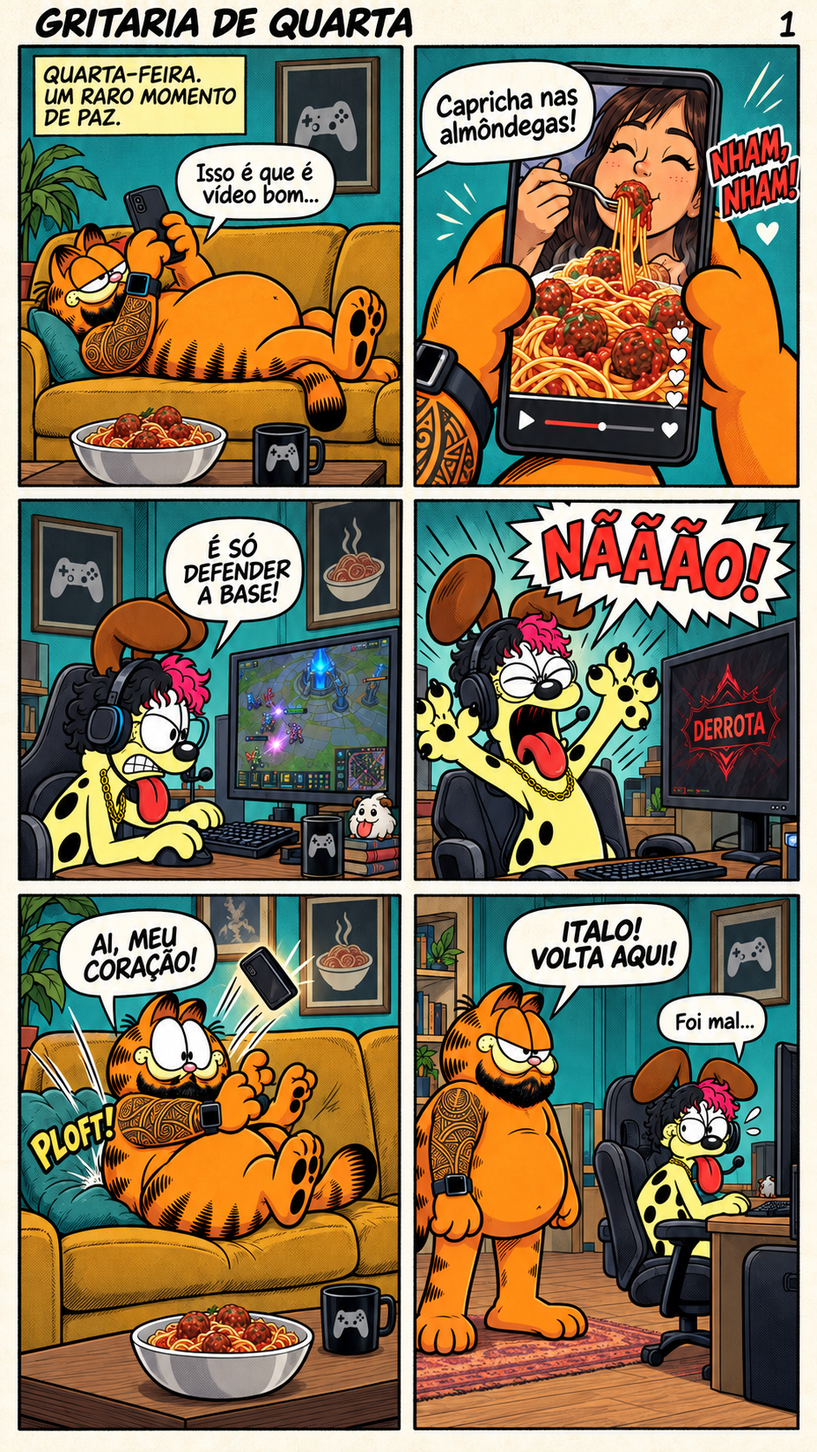
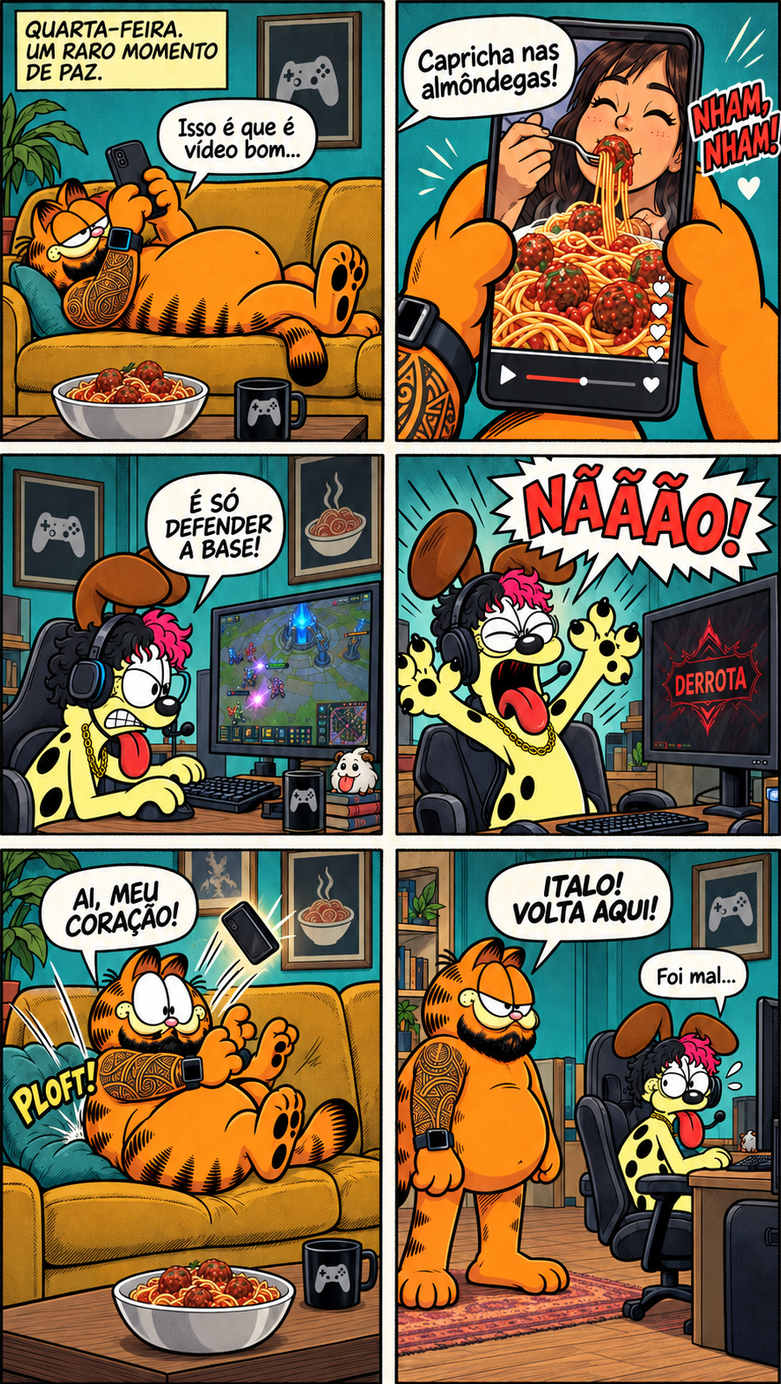
Capítulo 7: páginas recortadas só na ilustração
Sem título, numeração, logo e rodapé fora dos quadros (só cropping).
PAG1 e PAG2 eram duas versões da página 1: fica a PAG1; a outra e os
originais sem recorte estão em output/cap7 (fora do git).

diff --git a/js/images.generated.js b/js/images.generated.js
@@ -1,1 +1,1 @@
-window.SiteImages = {"assets/Capitulo 1/Capa/Capa CAP1.png":{"width":1536,"height":2752,"variants":[{"width":640,"src":"assets/web/4be0df9cb3cd0303-640.webp","bytes":282580},{"width":1280,"src":"assets/web/4be0df9cb3cd0303-1280.webp","bytes":839980},{"width":1536,"src":"assets/web/4be0df9cb3cd0303-1536.webp","bytes":1101664}]},"assets/Capitulo 1/Paginas/Enzo.png":{"width":768,"height":1365,"variants":[{"width":640,"src":"assets/web/df7a347e7b23842c-640.webp","bytes":187504},{"width":768,"src":"assets/web/df7a347e7b23842c-768.webp","bytes":255892}]},"assets/Capitulo 2/Capa/Capa CAP2.png":{"width":1536,"height":2752,"variants":[{"width":640,"src":"assets/web/0af9599b0faddd6d-640.webp","bytes":161188},{"width":1280,"src":"assets/web/0af9599b0faddd6d-1280.webp","bytes":462214},{"width":1536,"src":"assets/web/0af9599b0faddd6d-1536.webp","bytes":616116}]},"assets/Capitulo 2/Paginas/Cap 2 Pag1.png":{"width":768,"height":1364,"variants":[{"width":640,"src":"assets/web/5a283b23bfdf360c-640.webp","bytes":165768},{"width":768,"src":"assets/web/5a283b23bfdf360c-768.webp","bytes":213828}]},"assets/Capitulo 2/Paginas/Cap 2 Pag2.png":{"width":704,"height":1524,"variants":[{"width":640,"src":"assets/web/3623307bc33045ec-640.webp","bytes":209652},{"width":704,"src":"assets/web/3623307bc33045ec-704.webp","bytes":240104}]},"assets/Capitulo 3/Capa/Capa CAP3.PNG":{"width":1696,"height":2528,"variants":[{"width":640,"src":"assets/web/57dd2a80faf34dfc-640.webp","bytes":158634},{"width":1280,"src":"assets/web/57dd2a80faf34dfc-1280.webp","bytes":438342},{"width":1696,"src":"assets/web/57dd2a80faf34dfc-1696.webp","bytes":633914}]},"assets/Capitulo 3/Paginas/CAP3 PAG1.png":{"width":1696,"height":2528,"variants":[{"width":640,"src":"assets/web/7419953b5d00e5a4-640.webp","bytes":153028},{"width":1280,"src":"assets/web/7419953b5d00e5a4-1280.webp","bytes":403282},{"width":1696,"src":"assets/web/7419953b5d00e5a4-1696.webp","bytes":580774}]},"assets/Capitulo 3/Paginas/CAP3 PAG2.png":{"width":2752,"height":1536,"variants":[{"width":640,"src":"assets/web/699a2f8864b9622f-640.webp","bytes":86996},{"width":1280,"src":"assets/web/699a2f8864b9622f-1280.webp","bytes":253210},{"width":2000,"src":"assets/web/699a2f8864b9622f-2000.webp","bytes":483108}]},"assets/Capitulo 4/Capa/CAP4 CAPA.png":{"width":1536,"height":2752,"variants":[{"width":640,"src":"assets/web/1f96b72aac13d7f2-640.webp","bytes":169966},{"width":1280,"src":"assets/web/1f96b72aac13d7f2-1280.webp","bytes":487398},{"width":1536,"src":"assets/web/1f96b72aac13d7f2-1536.webp","bytes":629056}]},"assets/Capitulo 4/Paginas/CAP 4 PAG1.png":{"width":768,"height":1376,"variants":[{"width":640,"src":"assets/web/4d996956b9f0d444-640.webp","bytes":149502},{"width":768,"src":"assets/web/4d996956b9f0d444-768.webp","bytes":192440}]},"assets/Capitulo 4/Paginas/CAP 4 PAG2.png":{"width":704,"height":1524,"variants":[{"width":640,"src":"assets/web/a4616e769ec1f0cf-640.webp","bytes":178442},{"width":704,"src":"assets/web/a4616e769ec1f0cf-704.webp","bytes":199984}]},"assets/Capitulo 5/Capa/CAP5 CAPA.png":{"width":1536,"height":2752,"variants":[{"width":640,"src":"assets/web/567e0c447d2019d3-640.webp","bytes":233076},{"width":1280,"src":"assets/web/567e0c447d2019d3-1280.webp","bytes":646570},{"width":1536,"src":"assets/web/567e0c447d2019d3-1536.webp","bytes":846204}]},"assets/Capitulo 5/Paginas/CAP5 PAG1.jpg":{"width":768,"height":1376,"variants":[{"width":640,"src":"assets/web/d19c01e3a9a17c96-640.webp","bytes":152916},{"width":768,"src":"assets/web/d19c01e3a9a17c96-768.webp","bytes":192142}]},"assets/Capitulo 5/Paginas/CAP5 PAG2.jpg":{"width":768,"height":1376,"variants":[{"width":640,"src":"assets/web/6fe03013b0fd59d4-640.webp","bytes":165420},{"width":768,"src":"assets/web/6fe03013b0fd59d4-768.webp","bytes":208018}]},"assets/Capitulo 5/Paginas/CAP5 PAG3.jpg":{"width":768,"height":1376,"variants":[{"width":640,"src":"assets/web/b3261fd3d8e3e6f0-640.webp","bytes":192846},{"width":768,"src":"assets/web/b3261fd3d8e3e6f0-768.webp","bytes":251022}]},"assets/Capitulo 5/Paginas/CAP5 PAG4.png":{"width":1984,"height":2057,"variants":[{"width":640,"src":"assets/web/06babd350286daaa-640.webp","bytes":157624},{"width":1280,"src":"assets/web/06babd350286daaa-1280.webp","bytes":429008},{"width":1984,"src":"assets/web/06babd350286daaa-1984.webp","bytes":734164}]},"assets/Capitulo 5/Paginas/CAP5 PAG5.png":{"width":1696,"height":2528,"variants":[{"width":640,"src":"assets/web/5519e80eef40716c-640.webp","bytes":183060},{"width":1280,"src":"assets/web/5519e80eef40716c-1280.webp","bytes":466880},{"width":1696,"src":"assets/web/5519e80eef40716c-1696.webp","bytes":651306}]},"assets/Capitulo 6/Capa/CAP6 CAPA.png":{"width":1536,"height":2752,"variants":[{"width":640,"src":"assets/web/e4d58efa050329a5-640.webp","bytes":206928},{"width":1280,"src":"assets/web/e4d58efa050329a5-1280.webp","bytes":567676},{"width":1536,"src":"assets/web/e4d58efa050329a5-1536.webp","bytes":725778}]},"assets/Capitulo 6/Paginas/PAG1.png":{"width":768,"height":1376,"variants":[{"width":640,"src":"assets/web/826a25cc11a3b3af-640.webp","bytes":202522},{"width":768,"src":"assets/web/826a25cc11a3b3af-768.webp","bytes":266496}]},"assets/Capitulo 6/Paginas/PAG2.png":{"width":1080,"height":1920,"variants":[{"width":640,"src":"assets/web/3fb247fb5bc6bacb-640.webp","bytes":167464},{"width":1080,"src":"assets/web/3fb247fb5bc6bacb-1080.webp","bytes":306248}]},"assets/Capitulo 6/Paginas/PAG3.png":{"width":1750,"height":2432,"variants":[{"width":640,"src":"assets/web/08199e3d3e94e7ab-640.webp","bytes":144236},{"width":1280,"src":"assets/web/08199e3d3e94e7ab-1280.webp","bytes":361216},{"width":1750,"src":"assets/web/08199e3d3e94e7ab-1750.webp","bytes":528686}]},"assets/Capitulo 6/Paginas/PAG4.png":{"width":1750,"height":2432,"variants":[{"width":640,"src":"assets/web/dd9e6d41b282f436-640.webp","bytes":152042},{"width":1280,"src":"assets/web/dd9e6d41b282f436-1280.webp","bytes":406800},{"width":1750,"src":"assets/web/dd9e6d41b282f436-1750.webp","bytes":606140}]},"assets/Capitulo 6/Paginas/PAG5.png":{"width":1696,"height":2528,"variants":[{"width":640,"src":"assets/web/f535e7ba25b61751-640.webp","bytes":157724},{"width":1280,"src":"assets/web/f535e7ba25b61751-1280.webp","bytes":403716},{"width":1696,"src":"assets/web/f535e7ba25b61751-1696.webp","bytes":574934}]},"assets/Capitulo 7/Capa/CAP7 CAPA.png":{"width":941,"height":1672,"variants":[{"width":640,"src":"assets/web/c6dfea0d29d8f2ba-640.webp","bytes":283226},{"width":941,"src":"assets/web/c6dfea0d29d8f2ba-941.webp","bytes":513470}]},"assets/Capitulo 7/Paginas/PAG1.png":{"width":941,"height":1672,"variants":[{"width":640,"src":"assets/web/a3b827d808a4e5ff-640.webp","bytes":214662},{"width":941,"src":"assets/web/a3b827d808a4e5ff-941.webp","bytes":405606}]},"assets/Capitulo 7/Paginas/PAG2.png":{"width":1062,"height":1480,"variants":[{"width":640,"src":"assets/web/617e46d83be1ae64-640.webp","bytes":185242},{"width":1062,"src":"assets/web/617e46d83be1ae64-1062.webp","bytes":440574}]},"assets/Capitulo 7/Paginas/PAG3.png":{"width":941,"height":1672,"variants":[{"width":640,"src":"assets/web/184d44303f342040-640.webp","bytes":296474},{"width":941,"src":"assets/web/184d44303f342040-941.webp","bytes":555542}]},"assets/Capitulo 7/Paginas/PAG4.png":{"width":941,"height":1672,"variants":[{"width":640,"src":"assets/web/9dc31baa3427485e-640.webp","bytes":233616},{"width":941,"src":"assets/web/9dc31baa3427485e-941.webp","bytes":405400}]},"assets/Easter Eggs/Easter egg1.jpg":{"width":4080,"height":2296,"variants":[{"width":640,"src":"assets/web/deca72384fd8fcdc-640.webp","bytes":130320},{"width":1280,"src":"assets/web/deca72384fd8fcdc-1280.webp","bytes":517788},{"width":2000,"src":"assets/web/deca72384fd8fcdc-2000.webp","bytes":1051558}]},"assets/Personagens/Cabo Côco.png":{"width":1750,"height":2432,"variants":[{"width":640,"src":"assets/web/c0df924b96103b1d-640.webp","bytes":127364},{"width":1280,"src":"assets/web/c0df924b96103b1d-1280.webp","bytes":319928},{"width":1750,"src":"assets/web/c0df924b96103b1d-1750.webp","bytes":455452}]},"assets/Personagens/Degustador da noite Ficha.png":{"width":2048,"height":2056,"variants":[{"width":640,"src":"assets/web/ae15609878b0c353-640.webp","bytes":92714},{"width":1280,"src":"assets/web/ae15609878b0c353-1280.webp","bytes":238576},{"width":2000,"src":"assets/web/ae15609878b0c353-2000.webp","bytes":406464}]},"assets/Personagens/Enzo games ficha.png":{"width":1696,"height":2528,"variants":[{"width":640,"src":"assets/web/923569396f52acf1-640.webp","bytes":139952},{"width":1280,"src":"assets/web/923569396f52acf1-1280.webp","bytes":351198},{"width":1696,"src":"assets/web/923569396f52acf1-1696.webp","bytes":503082}]},"assets/Personagens/Hatsune Neves Ficha.png":{"width":2048,"height":2056,"variants":[{"width":640,"src":"assets/web/5cbfeb049ab34406-640.webp","bytes":115008},{"width":1280,"src":"assets/web/5cbfeb049ab34406-1280.webp","bytes":289656},{"width":2000,"src":"assets/web/5cbfeb049ab34406-2000.webp","bytes":500666}]},"assets/Personagens/Italolol.png":{"width":2016,"height":2114,"variants":[{"width":640,"src":"assets/web/35abbd7f000760a8-640.webp","bytes":67668},{"width":1280,"src":"assets/web/35abbd7f000760a8-1280.webp","bytes":157692},{"width":2000,"src":"assets/web/35abbd7f000760a8-2000.webp","bytes":264418}]},"assets/Personagens/O Inominavel Ficha.png":{"width":1344,"height":3100,"variants":[{"width":640,"src":"assets/web/396f3fd71eaad2f7-640.webp","bytes":161916},{"width":1280,"src":"assets/web/396f3fd71eaad2f7-1280.webp","bytes":386856},{"width":1344,"src":"assets/web/396f3fd71eaad2f7-1344.webp","bytes":418862}]},"assets/Personagens/Superkid Ficha.png":{"width":2016,"height":2086,"variants":[{"width":640,"src":"assets/web/77d918b4b1d05682-640.webp","bytes":100554},{"width":1280,"src":"assets/web/77d918b4b1d05682-1280.webp","bytes":256014},{"width":2000,"src":"assets/web/77d918b4b1d05682-2000.webp","bytes":434380}]},"assets/Personagens/cabo-coco.png":{"width":1750,"height":2432,"variants":[{"width":640,"src":"assets/web/15841341af8f999e-640.webp","bytes":341896},{"width":1280,"src":"assets/web/15841341af8f999e-1280.webp","bytes":868734},{"width":1750,"src":"assets/web/15841341af8f999e-1750.webp","bytes":581492}]},"assets/Spin Offs/Degustador da noite/Capitulo 1/Capa/CAPA DEGUSTADORR Cap1.png":{"width":941,"height":1672,"variants":[{"width":640,"src":"assets/web/a309be8920407819-640.webp","bytes":124232},{"width":941,"src":"assets/web/a309be8920407819-941.webp","bytes":226420}]},"assets/Spin Offs/Degustador da noite/Capitulo 1/Paginas/PAG1.png":{"width":1536,"height":1024,"variants":[{"width":640,"src":"assets/web/72ae2995e56a4a6f-640.webp","bytes":60062},{"width":1280,"src":"assets/web/72ae2995e56a4a6f-1280.webp","bytes":160658},{"width":1536,"src":"assets/web/72ae2995e56a4a6f-1536.webp","bytes":208440}]},"assets/Spin Offs/Degustador da noite/Capitulo 1/Paginas/PAG2.png":{"width":1536,"height":1024,"variants":[{"width":640,"src":"assets/web/47b661d12542ccdc-640.webp","bytes":54078},{"width":1280,"src":"assets/web/47b661d12542ccdc-1280.webp","bytes":166122},{"width":1536,"src":"assets/web/47b661d12542ccdc-1536.webp","bytes":214860}]},"assets/Spin Offs/Degustador da noite/Capitulo 1/Paginas/PAG3.png":{"width":1536,"height":1024,"variants":[{"width":640,"src":"assets/web/b942208954c80c73-640.webp","bytes":51422},{"width":1280,"src":"assets/web/b942208954c80c73-1280.webp","bytes":161702},{"width":1536,"src":"assets/web/b942208954c80c73-1536.webp","bytes":210764}]},"assets/Spin Offs/Degustador da noite/Capitulo 1/Paginas/PAG4.png":{"width":941,"height":1672,"variants":[{"width":640,"src":"assets/web/76bc80f3a7e7dbae-640.webp","bytes":130986},{"width":941,"src":"assets/web/76bc80f3a7e7dbae-941.webp","bytes":232658}]},"assets/Spin Offs/Degustador da noite/Capitulo 2/Capa/CAPA CAP2.jpg":{"width":720,"height":1280,"variants":[{"width":640,"src":"assets/web/c4b8cba0225bff6e-640.webp","bytes":170276},{"width":720,"src":"assets/web/c4b8cba0225bff6e-720.webp","bytes":199572}]},"assets/Spin Offs/Degustador da noite/Capitulo 2/Paginas/PAG1.png":{"width":1536,"height":1024,"variants":[{"width":640,"src":"assets/web/ec2360a576e04bb7-640.webp","bytes":67032},{"width":1280,"src":"assets/web/ec2360a576e04bb7-1280.webp","bytes":230592},{"width":1536,"src":"assets/web/ec2360a576e04bb7-1536.webp","bytes":305864}]},"assets/Spin Offs/Degustador da noite/Capitulo 2/Paginas/PAG2.jpg":{"width":1280,"height":853,"variants":[{"width":640,"src":"assets/web/41d673d3186f8efd-640.webp","bytes":60042},{"width":1280,"src":"assets/web/41d673d3186f8efd-1280.webp","bytes":182552}]},"assets/Spin Offs/Degustador da noite/Capitulo 2/Paginas/PAG3.jpg":{"width":1280,"height":858,"variants":[{"width":640,"src":"assets/web/5bfc1449d8c8351e-640.webp","bytes":63002},{"width":1280,"src":"assets/web/5bfc1449d8c8351e-1280.webp","bytes":191268}]},"assets/Spin Offs/Degustador da noite/Capitulo 2/Paginas/PAG4.jpg":{"width":1280,"height":853,"variants":[{"width":640,"src":"assets/web/907ec412b1074f0a-640.webp","bytes":64556},{"width":1280,"src":"assets/web/907ec412b1074f0a-1280.webp","bytes":198028}]},"assets/Spin Offs/Degustador da noite/Capitulo 2/Paginas/PAG5.jpg":{"width":1280,"height":1024,"variants":[{"width":640,"src":"assets/web/a9001f23a16cc3bd-640.webp","bytes":88156},{"width":1280,"src":"assets/web/a9001f23a16cc3bd-1280.webp","bytes":253344}]},"assets/Spin Offs/Degustador da noite/Capitulo 2/Paginas/PAG6.jpg":{"width":1280,"height":851,"variants":[{"width":640,"src":"assets/web/c0da4a9a63dc2d4f-640.webp","bytes":48112},{"width":1280,"src":"assets/web/c0da4a9a63dc2d4f-1280.webp","bytes":135316}]},"assets/Spin Offs/Degustador da noite/Capitulo 3/Capa/capa-provisoria.png":{"width":720,"height":1280,"variants":[{"width":640,"src":"assets/web/7238cc13af1c0a1f-640.webp","bytes":72728},{"width":720,"src":"assets/web/7238cc13af1c0a1f-720.webp","bytes":83846}]},"assets/Spin Offs/Degustador da noite/Capitulo 3/Paginas/PAG1.png":{"width":1535,"height":1024,"variants":[{"width":640,"src":"assets/web/99a25b220ebc15b6-640.webp","bytes":52888},{"width":1280,"src":"assets/web/99a25b220ebc15b6-1280.webp","bytes":182048},{"width":1535,"src":"assets/web/99a25b220ebc15b6-1535.webp","bytes":243640}]},"assets/Spin Offs/Degustador da noite/Capitulo 3/Paginas/PAG2.png":{"width":1536,"height":1024,"variants":[{"width":640,"src":"assets/web/692d0d80aaa7afef-640.webp","bytes":59392},{"width":1280,"src":"assets/web/692d0d80aaa7afef-1280.webp","bytes":210730},{"width":1536,"src":"assets/web/692d0d80aaa7afef-1536.webp","bytes":290982}]},"assets/Spin Offs/Degustador da noite/Capitulo 3/Paginas/PAG3.png":{"width":1536,"height":1024,"variants":[{"width":640,"src":"assets/web/19bc6789d2d23847-640.webp","bytes":48154},{"width":1280,"src":"assets/web/19bc6789d2d23847-1280.webp","bytes":162498},{"width":1536,"src":"assets/web/19bc6789d2d23847-1536.webp","bytes":222156}]},"assets/Spin Offs/Degustador da noite/Capitulo 3/Paginas/PAG4.png":{"width":1536,"height":1024,"variants":[{"width":640,"src":"assets/web/0b19a7410f38e6ff-640.webp","bytes":60740},{"width":1280,"src":"assets/web/0b19a7410f38e6ff-1280.webp","bytes":213612},{"width":1536,"src":"assets/web/0b19a7410f38e6ff-1536.webp","bytes":286150}]},"assets/Spin Offs/Degustador da noite/Capitulo 3/Paginas/PAG5.png":{"width":1536,"height":1024,"variants":[{"width":640,"src":"assets/web/795c697cb26a739c-640.webp","bytes":58638},{"width":1280,"src":"assets/web/795c697cb26a739c-1280.webp","bytes":216662},{"width":1536,"src":"assets/web/795c697cb26a739c-1536.webp","bytes":302036}]},"assets/Spin Offs/Degustador da noite/Capitulo 3/Paginas/PAG6.png":{"width":1536,"height":1024,"variants":[{"width":640,"src":"assets/web/18ac4d72ac610158-640.webp","bytes":42102},{"width":1280,"src":"assets/web/18ac4d72ac610158-1280.webp","bytes":157874},{"width":1536,"src":"assets/web/18ac4d72ac610158-1536.webp","bytes":217828}]},"assets/Spin Offs/Degustador da noite/Capitulo 4/Capa/capa-provisoria.png":{"width":720,"height":1280,"variants":[{"width":640,"src":"assets/web/363db39b0a91c697-640.webp","bytes":76628},{"width":720,"src":"assets/web/363db39b0a91c697-720.webp","bytes":87850}]},"assets/Spin Offs/Degustador da noite/Capitulo 4/Paginas/PAG1.png":{"width":1536,"height":1024,"variants":[{"width":640,"src":"assets/web/ca1bbd26fbe967b9-640.webp","bytes":45842},{"width":1280,"src":"assets/web/ca1bbd26fbe967b9-1280.webp","bytes":175500},{"width":1536,"src":"assets/web/ca1bbd26fbe967b9-1536.webp","bytes":240988}]},"assets/Spin Offs/Degustador da noite/Capitulo 4/Paginas/PAG10.png":{"width":1536,"height":1024,"variants":[{"width":640,"src":"assets/web/8babe1663f4d0361-640.webp","bytes":94378},{"width":1280,"src":"assets/web/8babe1663f4d0361-1280.webp","bytes":329280},{"width":1536,"src":"assets/web/8babe1663f4d0361-1536.webp","bytes":448050}]},"assets/Spin Offs/Degustador da noite/Capitulo 4/Paginas/PAG2.png":{"width":1533,"height":1026,"variants":[{"width":640,"src":"assets/web/59c18eff6a4179ac-640.webp","bytes":43282},{"width":1280,"src":"assets/web/59c18eff6a4179ac-1280.webp","bytes":166292},{"width":1533,"src":"assets/web/59c18eff6a4179ac-1533.webp","bytes":217220}]},"assets/Spin Offs/Degustador da noite/Capitulo 4/Paginas/PAG3.png":{"width":1533,"height":1026,"variants":[{"width":640,"src":"assets/web/ae868b9f0673317c-640.webp","bytes":42920},{"width":1280,"src":"assets/web/ae868b9f0673317c-1280.webp","bytes":158970},{"width":1533,"src":"assets/web/ae868b9f0673317c-1533.webp","bytes":211330}]},"assets/Spin Offs/Degustador da noite/Capitulo 4/Paginas/PAG4.png":{"width":1536,"height":1024,"variants":[{"width":640,"src":"assets/web/a7476bb13ff4540a-640.webp","bytes":48126},{"width":1280,"src":"assets/web/a7476bb13ff4540a-1280.webp","bytes":177260},{"width":1536,"src":"assets/web/a7476bb13ff4540a-1536.webp","bytes":244474}]},"assets/Spin Offs/Degustador da noite/Capitulo 4/Paginas/PAG5.png":{"width":1536,"height":1024,"variants":[{"width":640,"src":"assets/web/b2e9ff7f49547f39-640.webp","bytes":57614},{"width":1280,"src":"assets/web/b2e9ff7f49547f39-1280.webp","bytes":212738},{"width":1536,"src":"assets/web/b2e9ff7f49547f39-1536.webp","bytes":282644}]},"assets/Spin Offs/Degustador da noite/Capitulo 4/Paginas/PAG6.png":{"width":1536,"height":1024,"variants":[{"width":640,"src":"assets/web/b5d4bc05ae81a295-640.webp","bytes":68598},{"width":1280,"src":"assets/web/b5d4bc05ae81a295-1280.webp","bytes":251054},{"width":1536,"src":"assets/web/b5d4bc05ae81a295-1536.webp","bytes":349200}]},"assets/Spin Offs/Degustador da noite/Capitulo 4/Paginas/PAG7.png":{"width":1536,"height":1024,"variants":[{"width":640,"src":"assets/web/e61f8d634316cd02-640.webp","bytes":61846},{"width":1280,"src":"assets/web/e61f8d634316cd02-1280.webp","bytes":215826},{"width":1536,"src":"assets/web/e61f8d634316cd02-1536.webp","bytes":288220}]},"assets/Spin Offs/Degustador da noite/Capitulo 4/Paginas/PAG8.png":{"width":1536,"height":1024,"variants":[{"width":640,"src":"assets/web/4a8097d8ab5dbbce-640.webp","bytes":85324},{"width":1280,"src":"assets/web/4a8097d8ab5dbbce-1280.webp","bytes":302920},{"width":1536,"src":"assets/web/4a8097d8ab5dbbce-1536.webp","bytes":402988}]},"assets/Spin Offs/Degustador da noite/Capitulo 4/Paginas/PAG9.png":{"width":1536,"height":1024,"variants":[{"width":640,"src":"assets/web/60decbf81f001fe8-640.webp","bytes":80864},{"width":1280,"src":"assets/web/60decbf81f001fe8-1280.webp","bytes":277298},{"width":1536,"src":"assets/web/60decbf81f001fe8-1536.webp","bytes":374956}]},"assets/Spin Offs/Torado/Capitulo 1/Capa/capa.png":{"width":941,"height":1672,"variants":[{"width":640,"src":"assets/web/bb10238a267a0bb3-640.webp","bytes":271346},{"width":941,"src":"assets/web/bb10238a267a0bb3-941.webp","bytes":487510}]},"assets/Spin Offs/Torado/Capitulo 1/Paginas/pagina-01.png":{"width":941,"height":1672,"variants":[{"width":640,"src":"assets/web/904809e8e5da03e3-640.webp","bytes":232086},{"width":941,"src":"assets/web/904809e8e5da03e3-941.webp","bytes":427744}]},"assets/Spin Offs/Torado/Capitulo 1/Paginas/pagina-02.png":{"width":941,"height":1672,"variants":[{"width":640,"src":"assets/web/20beac6ece9b1e4f-640.webp","bytes":271812},{"width":941,"src":"assets/web/20beac6ece9b1e4f-941.webp","bytes":499658}]},"assets/Spin Offs/Torado/Capitulo 1/Paginas/pagina-03.png":{"width":941,"height":1672,"variants":[{"width":640,"src":"assets/web/b063b470bfb6bead-640.webp","bytes":282912},{"width":941,"src":"assets/web/b063b470bfb6bead-941.webp","bytes":524362}]},"assets/cursors/mp5k-fogo.png":{"width":32,"height":32,"variants":[{"width":32,"src":"assets/web/d1c03bbf64c12953-32.webp","bytes":878}]},"assets/cursors/mp5k.png":{"width":32,"height":32,"variants":[{"width":32,"src":"assets/web/cc6afd7969032fe7-32.webp","bytes":870}]},"assets/degustador-face-t.png":{"width":392,"height":354,"variants":[{"width":392,"src":"assets/web/010ebac3aafdd747-392.webp","bytes":16866}]},"assets/degustador-header.png":{"width":1536,"height":1024,"variants":[{"width":640,"src":"assets/web/7ad3422648e68b43-640.webp","bytes":103912},{"width":1280,"src":"assets/web/7ad3422648e68b43-1280.webp","bytes":306756},{"width":1536,"src":"assets/web/7ad3422648e68b43-1536.webp","bytes":384994}]},"assets/enzo-cabeca-logo.png":{"width":600,"height":542,"variants":[{"width":600,"src":"assets/web/86ba0c6f0fe68894-600.webp","bytes":80378}]},"assets/enzo-face-t.png":{"width":1080,"height":1080,"variants":[{"width":640,"src":"assets/web/21dd4172ac401f2e-640.webp","bytes":42692},{"width":1080,"src":"assets/web/21dd4172ac401f2e-1080.webp","bytes":57224}]},"assets/enzo_money.jpg":{"width":1024,"height":1024,"variants":[{"width":640,"src":"assets/web/808c3b4927d71465-640.webp","bytes":76816},{"width":1024,"src":"assets/web/808c3b4927d71465-1024.webp","bytes":146346}]},"assets/eye.jpg":{"width":1024,"height":1024,"variants":[{"width":640,"src":"assets/web/2ee035c86251f474-640.webp","bytes":126952},{"width":1024,"src":"assets/web/2ee035c86251f474-1024.webp","bytes":277558}]},"assets/flappy/bird.png":{"width":896,"height":896,"variants":[{"width":640,"src":"assets/web/775ad617b129a7ee-640.webp","bytes":34600},{"width":896,"src":"assets/web/775ad617b129a7ee-896.webp","bytes":45238}]},"assets/flappy/pasta-pipe-v2.png":{"width":1024,"height":1536,"variants":[{"width":640,"src":"assets/web/bb1f324e3d807169-640.webp","bytes":78270},{"width":1024,"src":"assets/web/bb1f324e3d807169-1024.webp","bytes":169356}]},"assets/flappy/target.png":{"width":896,"height":896,"variants":[{"width":640,"src":"assets/web/4ae68f14c9baef08-640.webp","bytes":35770},{"width":896,"src":"assets/web/4ae68f14c9baef08-896.webp","bytes":53380}]},"assets/italo-face-t.png":{"width":470,"height":364,"variants":[{"width":470,"src":"assets/web/db6944977fba8928-470.webp","bytes":17176}]},"assets/macaroni_meatballs.jpg":{"width":1024,"height":1024,"variants":[{"width":640,"src":"assets/web/5d84e752fa1f1e8f-640.webp","bytes":200228},{"width":1024,"src":"assets/web/5d84e752fa1f1e8f-1024.webp","bytes":386084}]},"assets/mp5k.png":{"width":1080,"height":1080,"variants":[{"width":640,"src":"assets/web/e44ff3da28c4dc49-640.webp","bytes":27796},{"width":1080,"src":"assets/web/e44ff3da28c4dc49-1080.webp","bytes":36418}]},"assets/mundo-enzo-games.png":{"width":1672,"height":941,"variants":[{"width":640,"src":"assets/web/0b054c076b75be8d-640.webp","bytes":114752},{"width":1280,"src":"assets/web/0b054c076b75be8d-1280.webp","bytes":400034},{"width":1672,"src":"assets/web/0b054c076b75be8d-1672.webp","bytes":604008}]},"assets/qrcode.png":{"width":280,"height":280,"variants":[{"width":280,"src":"assets/web/96739b00bd79b687-280.webp","bytes":12678}]},"assets/zezoverso-header.png":{"width":570,"height":222,"variants":[{"width":570,"src":"assets/web/414efe45283b759a-570.webp","bytes":39628}]}};
+window.SiteImages = {"assets/Capitulo 1/Capa/Capa CAP1.png":{"width":1536,"height":2752,"variants":[{"width":640,"src":"assets/web/4be0df9cb3cd0303-640.webp","bytes":282580},{"width":1280,"src":"assets/web/4be0df9cb3cd0303-1280.webp","bytes":839980},{"width":1536,"src":"assets/web/4be0df9cb3cd0303-1536.webp","bytes":1101664}]},"assets/Capitulo 1/Paginas/Enzo.png":{"width":768,"height":1365,"variants":[{"width":640,"src":"assets/web/df7a347e7b23842c-640.webp","bytes":187504},{"width":768,"src":"assets/web/df7a347e7b23842c-768.webp","bytes":255892}]},"assets/Capitulo 2/Capa/Capa CAP2.png":{"width":1536,"height":2752,"variants":[{"width":640,"src":"assets/web/0af9599b0faddd6d-640.webp","bytes":161188},{"width":1280,"src":"assets/web/0af9599b0faddd6d-1280.webp","bytes":462214},{"width":1536,"src":"assets/web/0af9599b0faddd6d-1536.webp","bytes":616116}]},"assets/Capitulo 2/Paginas/Cap 2 Pag1.png":{"width":768,"height":1364,"variants":[{"width":640,"src":"assets/web/5a283b23bfdf360c-640.webp","bytes":165768},{"width":768,"src":"assets/web/5a283b23bfdf360c-768.webp","bytes":213828}]},"assets/Capitulo 2/Paginas/Cap 2 Pag2.png":{"width":704,"height":1524,"variants":[{"width":640,"src":"assets/web/3623307bc33045ec-640.webp","bytes":209652},{"width":704,"src":"assets/web/3623307bc33045ec-704.webp","bytes":240104}]},"assets/Capitulo 3/Capa/Capa CAP3.PNG":{"width":1696,"height":2528,"variants":[{"width":640,"src":"assets/web/57dd2a80faf34dfc-640.webp","bytes":158634},{"width":1280,"src":"assets/web/57dd2a80faf34dfc-1280.webp","bytes":438342},{"width":1696,"src":"assets/web/57dd2a80faf34dfc-1696.webp","bytes":633914}]},"assets/Capitulo 3/Paginas/CAP3 PAG1.png":{"width":1696,"height":2528,"variants":[{"width":640,"src":"assets/web/7419953b5d00e5a4-640.webp","bytes":153028},{"width":1280,"src":"assets/web/7419953b5d00e5a4-1280.webp","bytes":403282},{"width":1696,"src":"assets/web/7419953b5d00e5a4-1696.webp","bytes":580774}]},"assets/Capitulo 3/Paginas/CAP3 PAG2.png":{"width":2752,"height":1536,"variants":[{"width":640,"src":"assets/web/699a2f8864b9622f-640.webp","bytes":86996},{"width":1280,"src":"assets/web/699a2f8864b9622f-1280.webp","bytes":253210},{"width":2000,"src":"assets/web/699a2f8864b9622f-2000.webp","bytes":483108}]},"assets/Capitulo 4/Capa/CAP4 CAPA.png":{"width":1536,"height":2752,"variants":[{"width":640,"src":"assets/web/1f96b72aac13d7f2-640.webp","bytes":169966},{"width":1280,"src":"assets/web/1f96b72aac13d7f2-1280.webp","bytes":487398},{"width":1536,"src":"assets/web/1f96b72aac13d7f2-1536.webp","bytes":629056}]},"assets/Capitulo 4/Paginas/CAP 4 PAG1.png":{"width":768,"height":1376,"variants":[{"width":640,"src":"assets/web/4d996956b9f0d444-640.webp","bytes":149502},{"width":768,"src":"assets/web/4d996956b9f0d444-768.webp","bytes":192440}]},"assets/Capitulo 4/Paginas/CAP 4 PAG2.png":{"width":704,"height":1524,"variants":[{"width":640,"src":"assets/web/a4616e769ec1f0cf-640.webp","bytes":178442},{"width":704,"src":"assets/web/a4616e769ec1f0cf-704.webp","bytes":199984}]},"assets/Capitulo 5/Capa/CAP5 CAPA.png":{"width":1536,"height":2752,"variants":[{"width":640,"src":"assets/web/567e0c447d2019d3-640.webp","bytes":233076},{"width":1280,"src":"assets/web/567e0c447d2019d3-1280.webp","bytes":646570},{"width":1536,"src":"assets/web/567e0c447d2019d3-1536.webp","bytes":846204}]},"assets/Capitulo 5/Paginas/CAP5 PAG1.jpg":{"width":768,"height":1376,"variants":[{"width":640,"src":"assets/web/d19c01e3a9a17c96-640.webp","bytes":152916},{"width":768,"src":"assets/web/d19c01e3a9a17c96-768.webp","bytes":192142}]},"assets/Capitulo 5/Paginas/CAP5 PAG2.jpg":{"width":768,"height":1376,"variants":[{"width":640,"src":"assets/web/6fe03013b0fd59d4-640.webp","bytes":165420},{"width":768,"src":"assets/web/6fe03013b0fd59d4-768.webp","bytes":208018}]},"assets/Capitulo 5/Paginas/CAP5 PAG3.jpg":{"width":768,"height":1376,"variants":[{"width":640,"src":"assets/web/b3261fd3d8e3e6f0-640.webp","bytes":192846},{"width":768,"src":"assets/web/b3261fd3d8e3e6f0-768.webp","bytes":251022}]},"assets/Capitulo 5/Paginas/CAP5 PAG4.png":{"width":1984,"height":2057,"variants":[{"width":640,"src":"assets/web/06babd350286daaa-640.webp","bytes":157624},{"width":1280,"src":"assets/web/06babd350286daaa-1280.webp","bytes":429008},{"width":1984,"src":"assets/web/06babd350286daaa-1984.webp","bytes":734164}]},"assets/Capitulo 5/Paginas/CAP5 PAG5.png":{"width":1696,"height":2528,"variants":[{"width":640,"src":"assets/web/5519e80eef40716c-640.webp","bytes":183060},{"width":1280,"src":"assets/web/5519e80eef40716c-1280.webp","bytes":466880},{"width":1696,"src":"assets/web/5519e80eef40716c-1696.webp","bytes":651306}]},"assets/Capitulo 6/Capa/CAP6 CAPA.png":{"width":1536,"height":2752,"variants":[{"width":640,"src":"assets/web/e4d58efa050329a5-640.webp","bytes":206928},{"width":1280,"src":"assets/web/e4d58efa050329a5-1280.webp","bytes":567676},{"width":1536,"src":"assets/web/e4d58efa050329a5-1536.webp","bytes":725778}]},"assets/Capitulo 6/Paginas/PAG1.png":{"width":768,"height":1376,"variants":[{"width":640,"src":"assets/web/826a25cc11a3b3af-640.webp","bytes":202522},{"width":768,"src":"assets/web/826a25cc11a3b3af-768.webp","bytes":266496}]},"assets/Capitulo 6/Paginas/PAG2.png":{"width":1080,"height":1920,"variants":[{"width":640,"src":"assets/web/3fb247fb5bc6bacb-640.webp","bytes":167464},{"width":1080,"src":"assets/web/3fb247fb5bc6bacb-1080.webp","bytes":306248}]},"assets/Capitulo 6/Paginas/PAG3.png":{"width":1750,"height":2432,"variants":[{"width":640,"src":"assets/web/08199e3d3e94e7ab-640.webp","bytes":144236},{"width":1280,"src":"assets/web/08199e3d3e94e7ab-1280.webp","bytes":361216},{"width":1750,"src":"assets/web/08199e3d3e94e7ab-1750.webp","bytes":528686}]},"assets/Capitulo 6/Paginas/PAG4.png":{"width":1750,"height":2432,"variants":[{"width":640,"src":"assets/web/dd9e6d41b282f436-640.webp","bytes":152042},{"width":1280,"src":"assets/web/dd9e6d41b282f436-1280.webp","bytes":406800},{"width":1750,"src":"assets/web/dd9e6d41b282f436-1750.webp","bytes":606140}]},"assets/Capitulo 6/Paginas/PAG5.png":{"width":1696,"height":2528,"variants":[{"width":640,"src":"assets/web/f535e7ba25b61751-640.webp","bytes":157724},{"width":1280,"src":"assets/web/f535e7ba25b61751-1280.webp","bytes":403716},{"width":1696,"src":"assets/web/f535e7ba25b61751-1696.webp","bytes":574934}]},"assets/Capitulo 7/Capa/CAP7 CAPA.png":{"width":941,"height":1672,"variants":[{"width":640,"src":"assets/web/c6dfea0d29d8f2ba-640.webp","bytes":283226},{"width":941,"src":"assets/web/c6dfea0d29d8f2ba-941.webp","bytes":513470}]},"assets/Capitulo 7/Paginas/PAG1.png":{"width":900,"height":1594,"variants":[{"width":640,"src":"assets/web/0b71bf3c30208816-640.webp","bytes":227400},{"width":900,"src":"assets/web/0b71bf3c30208816-900.webp","bytes":396286}]},"assets/Capitulo 7/Paginas/PAG2.png":{"width":914,"height":1510,"variants":[{"width":640,"src":"assets/web/3df4f6a9eaef4a4a-640.webp","bytes":282748},{"width":914,"src":"assets/web/3df4f6a9eaef4a4a-914.webp","bytes":504168}]},"assets/Capitulo 7/Paginas/PAG3.png":{"width":906,"height":1603,"variants":[{"width":640,"src":"assets/web/496dc944fa2a0a2a-640.webp","bytes":241434},{"width":906,"src":"assets/web/496dc944fa2a0a2a-906.webp","bytes":391382}]},"assets/Easter Eggs/Easter egg1.jpg":{"width":4080,"height":2296,"variants":[{"width":640,"src":"assets/web/deca72384fd8fcdc-640.webp","bytes":130320},{"width":1280,"src":"assets/web/deca72384fd8fcdc-1280.webp","bytes":517788},{"width":2000,"src":"assets/web/deca72384fd8fcdc-2000.webp","bytes":1051558}]},"assets/Personagens/Cabo Côco.png":{"width":1750,"height":2432,"variants":[{"width":640,"src":"assets/web/c0df924b96103b1d-640.webp","bytes":127364},{"width":1280,"src":"assets/web/c0df924b96103b1d-1280.webp","bytes":319928},{"width":1750,"src":"assets/web/c0df924b96103b1d-1750.webp","bytes":455452}]},"assets/Personagens/Degustador da noite Ficha.png":{"width":2048,"height":2056,"variants":[{"width":640,"src":"assets/web/ae15609878b0c353-640.webp","bytes":92714},{"width":1280,"src":"assets/web/ae15609878b0c353-1280.webp","bytes":238576},{"width":2000,"src":"assets/web/ae15609878b0c353-2000.webp","bytes":406464}]},"assets/Personagens/Enzo games ficha.png":{"width":1696,"height":2528,"variants":[{"width":640,"src":"assets/web/923569396f52acf1-640.webp","bytes":139952},{"width":1280,"src":"assets/web/923569396f52acf1-1280.webp","bytes":351198},{"width":1696,"src":"assets/web/923569396f52acf1-1696.webp","bytes":503082}]},"assets/Personagens/Hatsune Neves Ficha.png":{"width":2048,"height":2056,"variants":[{"width":640,"src":"assets/web/5cbfeb049ab34406-640.webp","bytes":115008},{"width":1280,"src":"assets/web/5cbfeb049ab34406-1280.webp","bytes":289656},{"width":2000,"src":"assets/web/5cbfeb049ab34406-2000.webp","bytes":500666}]},"assets/Personagens/Italolol.png":{"width":2016,"height":2114,"variants":[{"width":640,"src":"assets/web/35abbd7f000760a8-640.webp","bytes":67668},{"width":1280,"src":"assets/web/35abbd7f000760a8-1280.webp","bytes":157692},{"width":2000,"src":"assets/web/35abbd7f000760a8-2000.webp","bytes":264418}]},"assets/Personagens/O Inominavel Ficha.png":{"width":1344,"height":3100,"variants":[{"width":640,"src":"assets/web/396f3fd71eaad2f7-640.webp","bytes":161916},{"width":1280,"src":"assets/web/396f3fd71eaad2f7-1280.webp","bytes":386856},{"width":1344,"src":"assets/web/396f3fd71eaad2f7-1344.webp","bytes":418862}]},"assets/Personagens/Superkid Ficha.png":{"width":2016,"height":2086,"variants":[{"width":640,"src":"assets/web/77d918b4b1d05682-640.webp","bytes":100554},{"width":1280,"src":"assets/web/77d918b4b1d05682-1280.webp","bytes":256014},{"width":2000,"src":"assets/web/77d918b4b1d05682-2000.webp","bytes":434380}]},"assets/Personagens/cabo-coco.png":{"width":1750,"height":2432,"variants":[{"width":640,"src":"assets/web/15841341af8f999e-640.webp","bytes":341896},{"width":1280,"src":"assets/web/15841341af8f999e-1280.webp","bytes":868734},{"width":1750,"src":"assets/web/15841341af8f999e-1750.webp","bytes":581492}]},"assets/Spin Offs/Degustador da noite/Capitulo 1/Capa/CAPA DEGUSTADORR Cap1.png":{"width":941,"height":1672,"variants":[{"width":640,"src":"assets/web/a309be8920407819-640.webp","bytes":124232},{"width":941,"src":"assets/web/a309be8920407819-941.webp","bytes":226420}]},"assets/Spin Offs/Degustador da noite/Capitulo 1/Paginas/PAG1.png":{"width":1536,"height":1024,"variants":[{"width":640,"src":"assets/web/72ae2995e56a4a6f-640.webp","bytes":60062},{"width":1280,"src":"assets/web/72ae2995e56a4a6f-1280.webp","bytes":160658},{"width":1536,"src":"assets/web/72ae2995e56a4a6f-1536.webp","bytes":208440}]},"assets/Spin Offs/Degustador da noite/Capitulo 1/Paginas/PAG2.png":{"width":1536,"height":1024,"variants":[{"width":640,"src":"assets/web/47b661d12542ccdc-640.webp","bytes":54078},{"width":1280,"src":"assets/web/47b661d12542ccdc-1280.webp","bytes":166122},{"width":1536,"src":"assets/web/47b661d12542ccdc-1536.webp","bytes":214860}]},"assets/Spin Offs/Degustador da noite/Capitulo 1/Paginas/PAG3.png":{"width":1536,"height":1024,"variants":[{"width":640,"src":"assets/web/b942208954c80c73-640.webp","bytes":51422},{"width":1280,"src":"assets/web/b942208954c80c73-1280.webp","bytes":161702},{"width":1536,"src":"assets/web/b942208954c80c73-1536.webp","bytes":210764}]},"assets/Spin Offs/Degustador da noite/Capitulo 1/Paginas/PAG4.png":{"width":941,"height":1672,"variants":[{"width":640,"src":"assets/web/76bc80f3a7e7dbae-640.webp","bytes":130986},{"width":941,"src":"assets/web/76bc80f3a7e7dbae-941.webp","bytes":232658}]},"assets/Spin Offs/Degustador da noite/Capitulo 2/Capa/CAPA CAP2.jpg":{"width":720,"height":1280,"variants":[{"width":640,"src":"assets/web/c4b8cba0225bff6e-640.webp","bytes":170276},{"width":720,"src":"assets/web/c4b8cba0225bff6e-720.webp","bytes":199572}]},"assets/Spin Offs/Degustador da noite/Capitulo 2/Paginas/PAG1.png":{"width":1536,"height":1024,"variants":[{"width":640,"src":"assets/web/ec2360a576e04bb7-640.webp","bytes":67032},{"width":1280,"src":"assets/web/ec2360a576e04bb7-1280.webp","bytes":230592},{"width":1536,"src":"assets/web/ec2360a576e04bb7-1536.webp","bytes":305864}]},"assets/Spin Offs/Degustador da noite/Capitulo 2/Paginas/PAG2.jpg":{"width":1280,"height":853,"variants":[{"width":640,"src":"assets/web/41d673d3186f8efd-640.webp","bytes":60042},{"width":1280,"src":"assets/web/41d673d3186f8efd-1280.webp","bytes":182552}]},"assets/Spin Offs/Degustador da noite/Capitulo 2/Paginas/PAG3.jpg":{"width":1280,"height":858,"variants":[{"width":640,"src":"assets/web/5bfc1449d8c8351e-640.webp","bytes":63002},{"width":1280,"src":"assets/web/5bfc1449d8c8351e-1280.webp","bytes":191268}]},"assets/Spin Offs/Degustador da noite/Capitulo 2/Paginas/PAG4.jpg":{"width":1280,"height":853,"variants":[{"width":640,"src":"assets/web/907ec412b1074f0a-640.webp","bytes":64556},{"width":1280,"src":"assets/web/907ec412b1074f0a-1280.webp","bytes":198028}]},"assets/Spin Offs/Degustador da noite/Capitulo 2/Paginas/PAG5.jpg":{"width":1280,"height":1024,"variants":[{"width":640,"src":"assets/web/a9001f23a16cc3bd-640.webp","bytes":88156},{"width":1280,"src":"assets/web/a9001f23a16cc3bd-1280.webp","bytes":253344}]},"assets/Spin Offs/Degustador da noite/Capitulo 2/Paginas/PAG6.jpg":{"width":1280,"height":851,"variants":[{"width":640,"src":"assets/web/c0da4a9a63dc2d4f-640.webp","bytes":48112},{"width":1280,"src":"assets/web/c0da4a9a63dc2d4f-1280.webp","bytes":135316}]},"assets/Spin Offs/Degustador da noite/Capitulo 3/Capa/capa-provisoria.png":{"width":720,"height":1280,"variants":[{"width":640,"src":"assets/web/7238cc13af1c0a1f-640.webp","bytes":72728},{"width":720,"src":"assets/web/7238cc13af1c0a1f-720.webp","bytes":83846}]},"assets/Spin Offs/Degustador da noite/Capitulo 3/Paginas/PAG1.png":{"width":1535,"height":1024,"variants":[{"width":640,"src":"assets/web/99a25b220ebc15b6-640.webp","bytes":52888},{"width":1280,"src":"assets/web/99a25b220ebc15b6-1280.webp","bytes":182048},{"width":1535,"src":"assets/web/99a25b220ebc15b6-1535.webp","bytes":243640}]},"assets/Spin Offs/Degustador da noite/Capitulo 3/Paginas/PAG2.png":{"width":1536,"height":1024,"variants":[{"width":640,"src":"assets/web/692d0d80aaa7afef-640.webp","bytes":59392},{"width":1280,"src":"assets/web/692d0d80aaa7afef-1280.webp","bytes":210730},{"width":1536,"src":"assets/web/692d0d80aaa7afef-1536.webp","bytes":290982}]},"assets/Spin Offs/Degustador da noite/Capitulo 3/Paginas/PAG3.png":{"width":1536,"height":1024,"variants":[{"width":640,"src":"assets/web/19bc6789d2d23847-640.webp","bytes":48154},{"width":1280,"src":"assets/web/19bc6789d2d23847-1280.webp","bytes":162498},{"width":1536,"src":"assets/web/19bc6789d2d23847-1536.webp","bytes":222156}]},"assets/Spin Offs/Degustador da noite/Capitulo 3/Paginas/PAG4.png":{"width":1536,"height":1024,"variants":[{"width":640,"src":"assets/web/0b19a7410f38e6ff-640.webp","bytes":60740},{"width":1280,"src":"assets/web/0b19a7410f38e6ff-1280.webp","bytes":213612},{"width":1536,"src":"assets/web/0b19a7410f38e6ff-1536.webp","bytes":286150}]},"assets/Spin Offs/Degustador da noite/Capitulo 3/Paginas/PAG5.png":{"width":1536,"height":1024,"variants":[{"width":640,"src":"assets/web/795c697cb26a739c-640.webp","bytes":58638},{"width":1280,"src":"assets/web/795c697cb26a739c-1280.webp","bytes":216662},{"width":1536,"src":"assets/web/795c697cb26a739c-1536.webp","bytes":302036}]},"assets/Spin Offs/Degustador da noite/Capitulo 3/Paginas/PAG6.png":{"width":1536,"height":1024,"variants":[{"width":640,"src":"assets/web/18ac4d72ac610158-640.webp","bytes":42102},{"width":1280,"src":"assets/web/18ac4d72ac610158-1280.webp","bytes":157874},{"width":1536,"src":"assets/web/18ac4d72ac610158-1536.webp","bytes":217828}]},"assets/Spin Offs/Degustador da noite/Capitulo 4/Capa/capa-provisoria.png":{"width":720,"height":1280,"variants":[{"width":640,"src":"assets/web/363db39b0a91c697-640.webp","bytes":76628},{"width":720,"src":"assets/web/363db39b0a91c697-720.webp","bytes":87850}]},"assets/Spin Offs/Degustador da noite/Capitulo 4/Paginas/PAG1.png":{"width":1536,"height":1024,"variants":[{"width":640,"src":"assets/web/ca1bbd26fbe967b9-640.webp","bytes":45842},{"width":1280,"src":"assets/web/ca1bbd26fbe967b9-1280.webp","bytes":175500},{"width":1536,"src":"assets/web/ca1bbd26fbe967b9-1536.webp","bytes":240988}]},"assets/Spin Offs/Degustador da noite/Capitulo 4/Paginas/PAG10.png":{"width":1536,"height":1024,"variants":[{"width":640,"src":"assets/web/8babe1663f4d0361-640.webp","bytes":94378},{"width":1280,"src":"assets/web/8babe1663f4d0361-1280.webp","bytes":329280},{"width":1536,"src":"assets/web/8babe1663f4d0361-1536.webp","bytes":448050}]},"assets/Spin Offs/Degustador da noite/Capitulo 4/Paginas/PAG2.png":{"width":1533,"height":1026,"variants":[{"width":640,"src":"assets/web/59c18eff6a4179ac-640.webp","bytes":43282},{"width":1280,"src":"assets/web/59c18eff6a4179ac-1280.webp","bytes":166292},{"width":1533,"src":"assets/web/59c18eff6a4179ac-1533.webp","bytes":217220}]},"assets/Spin Offs/Degustador da noite/Capitulo 4/Paginas/PAG3.png":{"width":1533,"height":1026,"variants":[{"width":640,"src":"assets/web/ae868b9f0673317c-640.webp","bytes":42920},{"width":1280,"src":"assets/web/ae868b9f0673317c-1280.webp","bytes":158970},{"width":1533,"src":"assets/web/ae868b9f0673317c-1533.webp","bytes":211330}]},"assets/Spin Offs/Degustador da noite/Capitulo 4/Paginas/PAG4.png":{"width":1536,"height":1024,"variants":[{"width":640,"src":"assets/web/a7476bb13ff4540a-640.webp","bytes":48126},{"width":1280,"src":"assets/web/a7476bb13ff4540a-1280.webp","bytes":177260},{"width":1536,"src":"assets/web/a7476bb13ff4540a-1536.webp","bytes":244474}]},"assets/Spin Offs/Degustador da noite/Capitulo 4/Paginas/PAG5.png":{"width":1536,"height":1024,"variants":[{"width":640,"src":"assets/web/b2e9ff7f49547f39-640.webp","bytes":57614},{"width":1280,"src":"assets/web/b2e9ff7f49547f39-1280.webp","bytes":212738},{"width":1536,"src":"assets/web/b2e9ff7f49547f39-1536.webp","bytes":282644}]},"assets/Spin Offs/Degustador da noite/Capitulo 4/Paginas/PAG6.png":{"width":1536,"height":1024,"variants":[{"width":640,"src":"assets/web/b5d4bc05ae81a295-640.webp","bytes":68598},{"width":1280,"src":"assets/web/b5d4bc05ae81a295-1280.webp","bytes":251054},{"width":1536,"src":"assets/web/b5d4bc05ae81a295-1536.webp","bytes":349200}]},"assets/Spin Offs/Degustador da noite/Capitulo 4/Paginas/PAG7.png":{"width":1536,"height":1024,"variants":[{"width":640,"src":"assets/web/e61f8d634316cd02-640.webp","bytes":61846},{"width":1280,"src":"assets/web/e61f8d634316cd02-1280.webp","bytes":215826},{"width":1536,"src":"assets/web/e61f8d634316cd02-1536.webp","bytes":288220}]},"assets/Spin Offs/Degustador da noite/Capitulo 4/Paginas/PAG8.png":{"width":1536,"height":1024,"variants":[{"width":640,"src":"assets/web/4a8097d8ab5dbbce-640.webp","bytes":85324},{"width":1280,"src":"assets/web/4a8097d8ab5dbbce-1280.webp","bytes":302920},{"width":1536,"src":"assets/web/4a8097d8ab5dbbce-1536.webp","bytes":402988}]},"assets/Spin Offs/Degustador da noite/Capitulo 4/Paginas/PAG9.png":{"width":1536,"height":1024,"variants":[{"width":640,"src":"assets/web/60decbf81f001fe8-640.webp","bytes":80864},{"width":1280,"src":"assets/web/60decbf81f001fe8-1280.webp","bytes":277298},{"width":1536,"src":"assets/web/60decbf81f001fe8-1536.webp","bytes":374956}]},"assets/Spin Offs/Torado/Capitulo 1/Capa/capa.png":{"width":941,"height":1672,"variants":[{"width":640,"src":"assets/web/bb10238a267a0bb3-640.webp","bytes":271346},{"width":941,"src":"assets/web/bb10238a267a0bb3-941.webp","bytes":487510}]},"assets/Spin Offs/Torado/Capitulo 1/Paginas/pagina-01.png":{"width":941,"height":1672,"variants":[{"width":640,"src":"assets/web/904809e8e5da03e3-640.webp","bytes":232086},{"width":941,"src":"assets/web/904809e8e5da03e3-941.webp","bytes":427744}]},"assets/Spin Offs/Torado/Capitulo 1/Paginas/pagina-02.png":{"width":941,"height":1672,"variants":[{"width":640,"src":"assets/web/20beac6ece9b1e4f-640.webp","bytes":271812},{"width":941,"src":"assets/web/20beac6ece9b1e4f-941.webp","bytes":499658}]},"assets/Spin Offs/Torado/Capitulo 1/Paginas/pagina-03.png":{"width":941,"height":1672,"variants":[{"width":640,"src":"assets/web/b063b470bfb6bead-640.webp","bytes":282912},{"width":941,"src":"assets/web/b063b470bfb6bead-941.webp","bytes":524362}]},"assets/cursors/mp5k-fogo.png":{"width":32,"height":32,"variants":[{"width":32,"src":"assets/web/d1c03bbf64c12953-32.webp","bytes":878}]},"assets/cursors/mp5k.png":{"width":32,"height":32,"variants":[{"width":32,"src":"assets/web/cc6afd7969032fe7-32.webp","bytes":870}]},"assets/degustador-face-t.png":{"width":392,"height":354,"variants":[{"width":392,"src":"assets/web/010ebac3aafdd747-392.webp","bytes":16866}]},"assets/degustador-header.png":{"width":1536,"height":1024,"variants":[{"width":640,"src":"assets/web/7ad3422648e68b43-640.webp","bytes":103912},{"width":1280,"src":"assets/web/7ad3422648e68b43-1280.webp","bytes":306756},{"width":1536,"src":"assets/web/7ad3422648e68b43-1536.webp","bytes":384994}]},"assets/enzo-cabeca-logo.png":{"width":600,"height":542,"variants":[{"width":600,"src":"assets/web/86ba0c6f0fe68894-600.webp","bytes":80378}]},"assets/enzo-face-t.png":{"width":1080,"height":1080,"variants":[{"width":640,"src":"assets/web/21dd4172ac401f2e-640.webp","bytes":42692},{"width":1080,"src":"assets/web/21dd4172ac401f2e-1080.webp","bytes":57224}]},"assets/enzo_money.jpg":{"width":1024,"height":1024,"variants":[{"width":640,"src":"assets/web/808c3b4927d71465-640.webp","bytes":76816},{"width":1024,"src":"assets/web/808c3b4927d71465-1024.webp","bytes":146346}]},"assets/eye.jpg":{"width":1024,"height":1024,"variants":[{"width":640,"src":"assets/web/2ee035c86251f474-640.webp","bytes":126952},{"width":1024,"src":"assets/web/2ee035c86251f474-1024.webp","bytes":277558}]},"assets/flappy/bird.png":{"width":896,"height":896,"variants":[{"width":640,"src":"assets/web/775ad617b129a7ee-640.webp","bytes":34600},{"width":896,"src":"assets/web/775ad617b129a7ee-896.webp","bytes":45238}]},"assets/flappy/pasta-pipe-v2.png":{"width":1024,"height":1536,"variants":[{"width":640,"src":"assets/web/bb1f324e3d807169-640.webp","bytes":78270},{"width":1024,"src":"assets/web/bb1f324e3d807169-1024.webp","bytes":169356}]},"assets/flappy/target.png":{"width":896,"height":896,"variants":[{"width":640,"src":"assets/web/4ae68f14c9baef08-640.webp","bytes":35770},{"width":896,"src":"assets/web/4ae68f14c9baef08-896.webp","bytes":53380}]},"assets/italo-face-t.png":{"width":470,"height":364,"variants":[{"width":470,"src":"assets/web/db6944977fba8928-470.webp","bytes":17176}]},"assets/macaroni_meatballs.jpg":{"width":1024,"height":1024,"variants":[{"width":640,"src":"assets/web/5d84e752fa1f1e8f-640.webp","bytes":200228},{"width":1024,"src":"assets/web/5d84e752fa1f1e8f-1024.webp","bytes":386084}]},"assets/mp5k.png":{"width":1080,"height":1080,"variants":[{"width":640,"src":"assets/web/e44ff3da28c4dc49-640.webp","bytes":27796},{"width":1080,"src":"assets/web/e44ff3da28c4dc49-1080.webp","bytes":36418}]},"assets/mundo-enzo-games.png":{"width":1672,"height":941,"variants":[{"width":640,"src":"assets/web/0b054c076b75be8d-640.webp","bytes":114752},{"width":1280,"src":"assets/web/0b054c076b75be8d-1280.webp","bytes":400034},{"width":1672,"src":"assets/web/0b054c076b75be8d-1672.webp","bytes":604008}]},"assets/qrcode.png":{"width":280,"height":280,"variants":[{"width":280,"src":"assets/web/96739b00bd79b687-280.webp","bytes":12678}]},"assets/zezoverso-header.png":{"width":570,"height":222,"variants":[{"width":570,"src":"assets/web/414efe45283b759a-570.webp","bytes":39628}]}};
